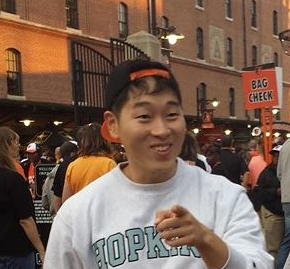
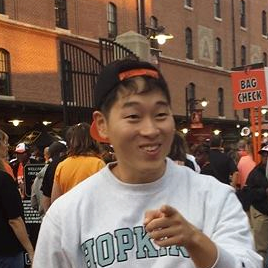
Adjusted Bruce's pic to match others' format

diff --git a/css/bootstrap_ms.css b/css/bootstrap_ms.css
@@ -163,14 +163,7 @@
 
   .col-ms-offset-11 {
     margin-left: 91.66667%; }
-}
 
-@media (max-width: 480px) {
-  .hidden-xxs {
-    display: none !important;
-  }
-}
-@media (min-width: 480px) and (max-width: 767px) {
   .hidden-ms {
     display: none !important;
   }
@@ -178,4 +171,175 @@
     max-width: 748px; }
     
   .form-horizontal .form-group .control-label {text-align:right;}
+}
+
+.col-xxs-1,
+.col-xxs-2,
+.col-xxs-3,
+.col-xxs-4,
+.col-xxs-5,
+.col-xxs-6,
+.col-xxs-7,
+.col-xxs-8,
+.col-xxs-9,
+.col-xxs-10,
+.col-xxs-11,
+.col-xxs-12 {
+  position: relative;
+  min-height: 1px;
+  padding-left: 15px;
+  padding-right: 15px; }
+
+@media (max-width: 480px) {
+  .col-xxs-1,
+  .col-xxs-2,
+  .col-xxs-3,
+  .col-xxs-4,
+  .col-xxs-5,
+  .col-xxs-6,
+  .col-xxs-7,
+  .col-xxs-8,
+  .col-xxs-9,
+  .col-xxs-10,
+  .col-xxs-11 {
+    float: left; }
+
+  .col-xxs-1 {
+    width: 8.33333%; }
+
+  .col-xxs-2 {
+    width: 16.66667%; }
+
+  .col-xxs-3 {
+    width: 25%; }
+
+  .col-xxs-4 {
+    width: 33.33333%; }
+
+  .col-xxs-5 {
+    width: 41.66667%; }
+
+  .col-xxs-6 {
+    width: 50%; }
+
+  .col-xxs-7 {
+    width: 58.33333%; }
+
+  .col-xxs-8 {
+    width: 66.66667%; }
+
+  .col-xxs-9 {
+    width: 75%; }
+
+  .col-xxs-10 {
+    width: 83.33333%; }
+
+  .col-xxs-11 {
+    width: 91.66667%; }
+
+  .col-xxs-12 {
+    width: 100%; }
+
+  .col-xxs-push-1 {
+    left: 8.33333%; }
+
+  .col-xxs-push-2 {
+    left: 16.66667%; }
+
+  .col-xxs-push-3 {
+    left: 25%; }
+
+  .col-xxs-push-4 {
+    left: 33.33333%; }
+
+  .col-xxs-push-5 {
+    left: 41.66667%; }
+
+  .col-xxs-push-6 {
+    left: 50%; }
+
+  .col-xxs-push-7 {
+    left: 58.33333%; }
+
+  .col-xxs-push-8 {
+    left: 66.66667%; }
+
+  .col-xxs-push-9 {
+    left: 75%; }
+
+  .col-xxs-push-10 {
+    left: 83.33333%; }
+
+  .col-xxs-push-11 {
+    left: 91.66667%; }
+
+  .col-xxs-pull-1 {
+    right: 8.33333%; }
+
+  .col-xxs-pull-2 {
+    right: 16.66667%; }
+
+  .col-xxs-pull-3 {
+    right: 25%; }
+
+  .col-xxs-pull-4 {
+    right: 33.33333%; }
+
+  .col-xxs-pull-5 {
+    right: 41.66667%; }
+
+  .col-xxs-pull-6 {
+    right: 50%; }
+
+  .col-xxs-pull-7 {
+    right: 58.33333%; }
+
+  .col-xxs-pull-8 {
+    right: 66.66667%; }
+
+  .col-xxs-pull-9 {
+    right: 75%; }
+
+  .col-xxs-pull-10 {
+    right: 83.33333%; }
+
+  .col-xxs-pull-11 {
+    right: 91.66667%; }
+
+  .col-xxs-offset-1 {
+    margin-left: 8.33333%; }
+
+  .col-xxs-offset-2 {
+    margin-left: 16.66667%; }
+
+  .col-xxs-offset-3 {
+    margin-left: 25%; }
+
+  .col-xxs-offset-4 {
+    margin-left: 33.33333%; }
+
+  .col-xxs-offset-5 {
+    margin-left: 41.66667%; }
+
+  .col-xxs-offset-6 {
+    margin-left: 50%; }
+
+  .col-xxs-offset-7 {
+    margin-left: 58.33333%; }
+
+  .col-xxs-offset-8 {
+    margin-left: 66.66667%; }
+
+  .col-xxs-offset-9 {
+    margin-left: 75%; }
+
+  .col-xxs-offset-10 {
+    margin-left: 83.33333%; }
+
+  .col-xxs-offset-11 {
+    margin-left: 91.66667%; }
+
+  .hidden-xxs {
+    display: none !important;
+  }
 }

diff --git a/index.html b/index.html
@@ -117,7 +117,7 @@
       </div>
       -->
       <hr>
-      
+
       <h2>Lesson Plan</h2>
       <div class="row lesson-plan">
         <div class="col-sm-7">
